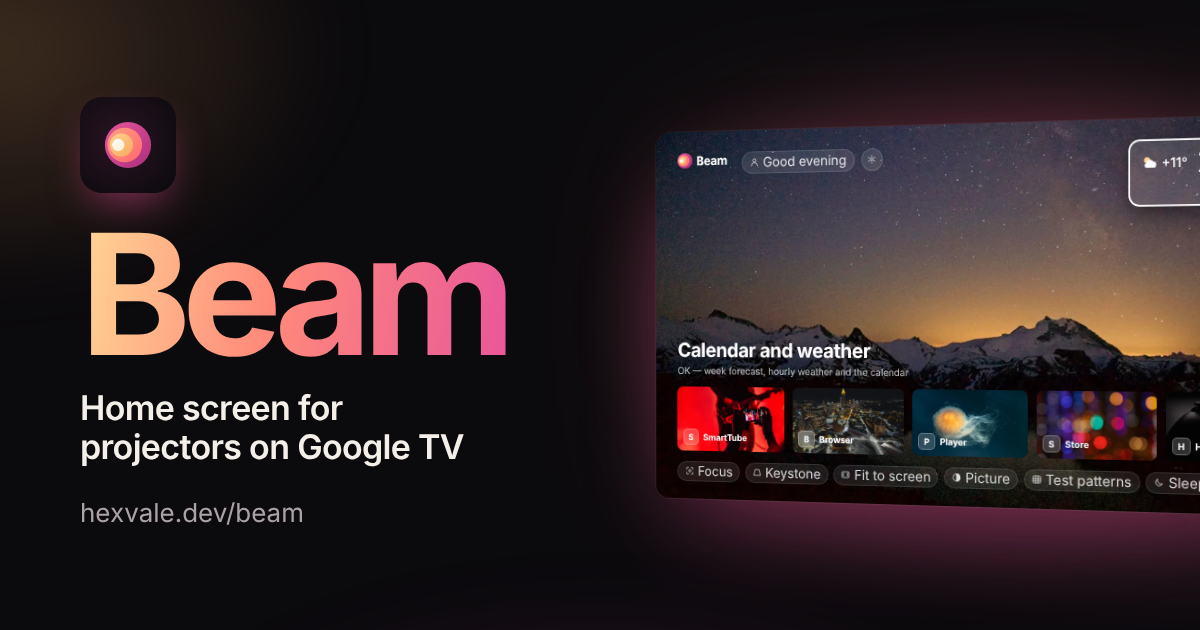
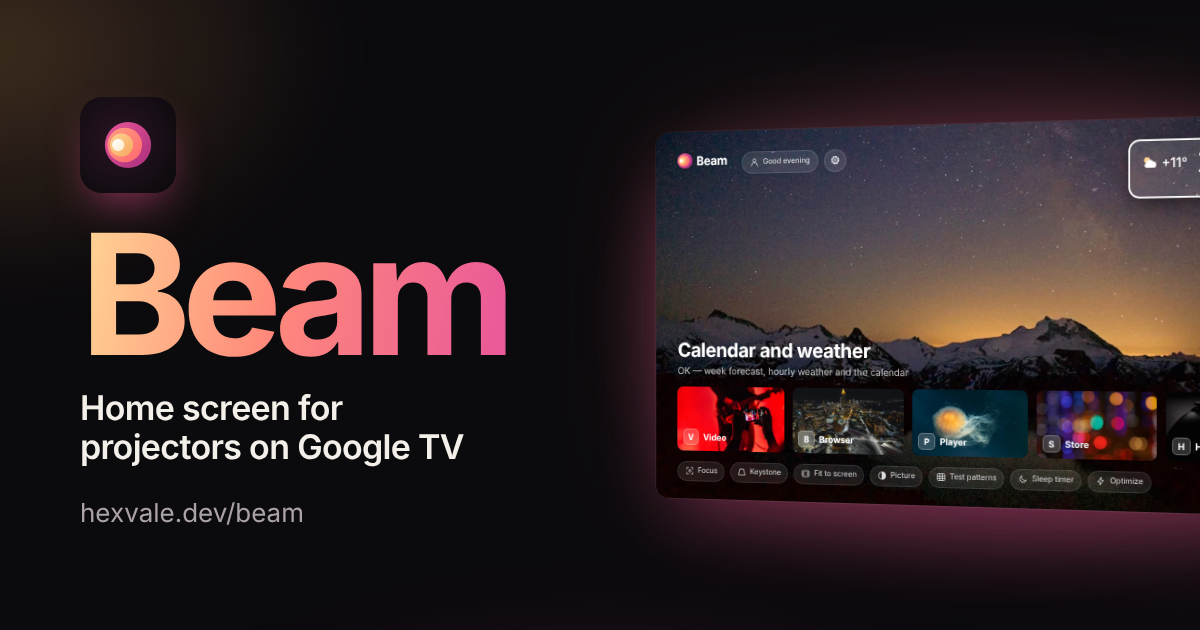
Beam: remote buttons described as reassignable, no third-party app names

Changed region(s): [[0.5858, 0.6635, 1.0, 0.7841], [0.6167, 0.2413, 0.74, 0.2714], [0.925, 0.3016, 1.0, 0.3317]]

diff --git a/ru/beam/index.html b/ru/beam/index.html
@@ -62,7 +62,7 @@
           </div>
           <h1 class="b-wordmark beam-word">Beam</h1>
           <p class="o-tagline">Главный экран для проекторов на Google TV</p>
-          <p class="lead">Чистый главный экран без рекламы и рекомендаций. Кнопка «Домой» открывает Beam, кнопка YouTube на пульте — SmartTube, а фокус, трапеция и таймер сна — в один клик.</p>
+          <p class="lead">Чистый главный экран без рекламы и рекомендаций. Кнопка «Домой» открывает Beam, кнопки пульта можно переназначить, а фокус, трапеция и таймер сна — в один клик.</p>
           <ul class="tags"><li>Без рекламы</li><li>Без аналитики</li><li>Бесплатный и открытый</li></ul>
         </div>
         <div class="room stage" aria-hidden="true">
@@ -82,7 +82,7 @@
                   <p class="tv-title">Календарь и погода</p>
                   <p class="tv-desc">OK — прогноз на неделю, погода по часам и календарь</p>
                 </div>
-                <div class="tv-row"><span class="tv-tile"><img src="/assets/img/beam/cover-smarttube-640.webp" width="640" height="360" alt="" loading="lazy" decoding="async"><span><i>S</i>SmartTube</span></span><span class="tv-tile"><img src="/assets/img/beam/cover-browser-640.webp" width="640" height="360" alt="" loading="lazy" decoding="async"><span><i>Б</i>Браузер</span></span><span class="tv-tile"><img src="/assets/img/beam/cover-implayer-640.webp" width="640" height="360" alt="" loading="lazy" decoding="async"><span><i>П</i>Плеер</span></span><span class="tv-tile"><img src="/assets/img/beam/cover-play-640.webp" width="640" height="360" alt="" loading="lazy" decoding="async"><span><i>М</i>Магазин</span></span><span class="tv-tile"><img src="/assets/img/beam/cover-hdmi-640.webp" width="640" height="360" alt="" loading="lazy" decoding="async"><span><i>H</i>HDMI</span></span></div>
+                <div class="tv-row"><span class="tv-tile"><img src="/assets/img/beam/cover-video-640.webp" width="640" height="360" alt="" loading="lazy" decoding="async"><span><i>В</i>Видео</span></span><span class="tv-tile"><img src="/assets/img/beam/cover-browser-640.webp" width="640" height="360" alt="" loading="lazy" decoding="async"><span><i>Б</i>Браузер</span></span><span class="tv-tile"><img src="/assets/img/beam/cover-implayer-640.webp" width="640" height="360" alt="" loading="lazy" decoding="async"><span><i>П</i>Плеер</span></span><span class="tv-tile"><img src="/assets/img/beam/cover-play-640.webp" width="640" height="360" alt="" loading="lazy" decoding="async"><span><i>М</i>Магазин</span></span><span class="tv-tile"><img src="/assets/img/beam/cover-hdmi-640.webp" width="640" height="360" alt="" loading="lazy" decoding="async"><span><i>H</i>HDMI</span></span></div>
                 <div class="tv-acts"><span class="tv-act"><svg viewBox="0 0 24 24" aria-hidden="true"><circle cx="12" cy="12" r="3"/><path d="M4 8V5a1 1 0 0 1 1-1h3M16 4h3a1 1 0 0 1 1 1v3M20 16v3a1 1 0 0 1-1 1h-3M8 20H5a1 1 0 0 1-1-1v-3"/></svg>Фокус</span><span class="tv-act"><svg viewBox="0 0 24 24" aria-hidden="true"><path d="M7 5h10l3.5 14h-17z"/></svg>Трапеция</span><span class="tv-act"><svg viewBox="0 0 24 24" aria-hidden="true"><rect x="3" y="5" width="18" height="14" rx="2"/><path d="M8 9H6.5v2M16 9h1.5v2M8 15H6.5v-2M16 15h1.5v-2"/></svg>Вписать</span><span class="tv-act"><svg viewBox="0 0 24 24" aria-hidden="true"><circle cx="12" cy="12" r="8.5"/><path d="M12 3.5a8.5 8.5 0 0 1 0 17z" fill="currentColor"/></svg>Изображение</span><span class="tv-act"><svg viewBox="0 0 24 24" aria-hidden="true"><rect x="3" y="4" width="18" height="16" rx="2"/><path d="M3 10h18M3 15h18M9 4v16M15 4v16"/></svg>Тест-таблицы</span><span class="tv-act"><svg viewBox="0 0 24 24" aria-hidden="true"><path d="M20 14.5A8 8 0 0 1 9.5 4a8 8 0 1 0 10.5 10.5z"/></svg>Таймер сна</span><span class="tv-act"><svg viewBox="0 0 24 24" aria-hidden="true"><path d="M13 3 5 14h6l-1 7 8-11h-6z"/></svg>Оптимизация</span></div>
               </div>
             </div>
@@ -146,10 +146,10 @@
           <article class="card reveal">
             <div class="art night" aria-hidden="true"><div class="remote"><span class="ring"></span><span class="home lit"></span><span class="keys"><i class="lit"></i><i></i><i></i><i></i></span></div></div>
             <h3>Кнопки пульта</h3>
-            <p>«Домой» открывает Beam, а кнопка YouTube — SmartTube. Небольшая служба видит только, какая кнопка нажата. Выбор своих приложений — в следующих версиях.</p>
+            <p>«Домой» открывает Beam, а кнопки пульта можно переназначить. Небольшая служба видит только, какая кнопка нажата.</p>
           </article>
           <article class="card reveal">
-            <div class="art night" aria-hidden="true"><div class="mini-covers"><img src="/assets/img/beam/cover-browser-640.webp" width="640" height="360" alt="" loading="lazy" decoding="async"><img src="/assets/img/beam/cover-implayer-640.webp" width="640" height="360" alt="" loading="lazy" decoding="async"><img src="/assets/img/beam/cover-smarttube-640.webp" width="640" height="360" alt="" loading="lazy" decoding="async"></div></div>
+            <div class="art night" aria-hidden="true"><div class="mini-covers"><img src="/assets/img/beam/cover-browser-640.webp" width="640" height="360" alt="" loading="lazy" decoding="async"><img src="/assets/img/beam/cover-implayer-640.webp" width="640" height="360" alt="" loading="lazy" decoding="async"><img src="/assets/img/beam/cover-video-640.webp" width="640" height="360" alt="" loading="lazy" decoding="async"></div></div>
             <h3>Обложки приложений</h3>
             <p>У каждого приложения — фото в его настроении, значок и название, а если хотите — собственный баннер приложения. Удерживайте OK на плитке, чтобы переместить или скрыть её.</p>
           </article>

diff --git a/beam/index.html b/beam/index.html
@@ -62,7 +62,7 @@
           </div>
           <h1 class="b-wordmark beam-word">Beam</h1>
           <p class="o-tagline">A home screen for projectors on Google TV</p>
-          <p class="lead">A clean home screen without ads or recommendations. The Home button opens Beam, the YouTube button on the remote opens SmartTube, and focus, keystone and the sleep timer are one click away.</p>
+          <p class="lead">A clean home screen without ads or recommendations. The Home button opens Beam, the remote buttons can be reassigned, and focus, keystone and the sleep timer are one click away.</p>
           <ul class="tags"><li>No ads</li><li>No analytics</li><li>Free and open source</li></ul>
         </div>
         <div class="room stage" aria-hidden="true">
@@ -82,7 +82,7 @@
                   <p class="tv-title">Calendar and weather</p>
                   <p class="tv-desc">OK — week forecast, hourly weather and the calendar</p>
                 </div>
-                <div class="tv-row"><span class="tv-tile"><img src="/assets/img/beam/cover-smarttube-640.webp" width="640" height="360" alt="" loading="lazy" decoding="async"><span><i>S</i>SmartTube</span></span><span class="tv-tile"><img src="/assets/img/beam/cover-browser-640.webp" width="640" height="360" alt="" loading="lazy" decoding="async"><span><i>B</i>Browser</span></span><span class="tv-tile"><img src="/assets/img/beam/cover-implayer-640.webp" width="640" height="360" alt="" loading="lazy" decoding="async"><span><i>P</i>Player</span></span><span class="tv-tile"><img src="/assets/img/beam/cover-play-640.webp" width="640" height="360" alt="" loading="lazy" decoding="async"><span><i>S</i>Store</span></span><span class="tv-tile"><img src="/assets/img/beam/cover-hdmi-640.webp" width="640" height="360" alt="" loading="lazy" decoding="async"><span><i>H</i>HDMI</span></span></div>
+                <div class="tv-row"><span class="tv-tile"><img src="/assets/img/beam/cover-video-640.webp" width="640" height="360" alt="" loading="lazy" decoding="async"><span><i>V</i>Video</span></span><span class="tv-tile"><img src="/assets/img/beam/cover-browser-640.webp" width="640" height="360" alt="" loading="lazy" decoding="async"><span><i>B</i>Browser</span></span><span class="tv-tile"><img src="/assets/img/beam/cover-implayer-640.webp" width="640" height="360" alt="" loading="lazy" decoding="async"><span><i>P</i>Player</span></span><span class="tv-tile"><img src="/assets/img/beam/cover-play-640.webp" width="640" height="360" alt="" loading="lazy" decoding="async"><span><i>S</i>Store</span></span><span class="tv-tile"><img src="/assets/img/beam/cover-hdmi-640.webp" width="640" height="360" alt="" loading="lazy" decoding="async"><span><i>H</i>HDMI</span></span></div>
                 <div class="tv-acts"><span class="tv-act"><svg viewBox="0 0 24 24" aria-hidden="true"><circle cx="12" cy="12" r="3"/><path d="M4 8V5a1 1 0 0 1 1-1h3M16 4h3a1 1 0 0 1 1 1v3M20 16v3a1 1 0 0 1-1 1h-3M8 20H5a1 1 0 0 1-1-1v-3"/></svg>Focus</span><span class="tv-act"><svg viewBox="0 0 24 24" aria-hidden="true"><path d="M7 5h10l3.5 14h-17z"/></svg>Keystone</span><span class="tv-act"><svg viewBox="0 0 24 24" aria-hidden="true"><rect x="3" y="5" width="18" height="14" rx="2"/><path d="M8 9H6.5v2M16 9h1.5v2M8 15H6.5v-2M16 15h1.5v-2"/></svg>Fit to screen</span><span class="tv-act"><svg viewBox="0 0 24 24" aria-hidden="true"><circle cx="12" cy="12" r="8.5"/><path d="M12 3.5a8.5 8.5 0 0 1 0 17z" fill="currentColor"/></svg>Picture</span><span class="tv-act"><svg viewBox="0 0 24 24" aria-hidden="true"><rect x="3" y="4" width="18" height="16" rx="2"/><path d="M3 10h18M3 15h18M9 4v16M15 4v16"/></svg>Test patterns</span><span class="tv-act"><svg viewBox="0 0 24 24" aria-hidden="true"><path d="M20 14.5A8 8 0 0 1 9.5 4a8 8 0 1 0 10.5 10.5z"/></svg>Sleep timer</span><span class="tv-act"><svg viewBox="0 0 24 24" aria-hidden="true"><path d="M13 3 5 14h6l-1 7 8-11h-6z"/></svg>Optimize</span></div>
               </div>
             </div>
@@ -146,10 +146,10 @@
           <article class="card reveal">
             <div class="art night" aria-hidden="true"><div class="remote"><span class="ring"></span><span class="home lit"></span><span class="keys"><i class="lit"></i><i></i><i></i><i></i></span></div></div>
             <h3>Remote buttons</h3>
-            <p>Home opens Beam, and the YouTube button opens SmartTube. A small service sees only which button was pressed. Picking your own apps comes in a later version.</p>
+            <p>Home opens Beam, and the remote buttons can be reassigned. A small service sees only which button was pressed.</p>
           </article>
           <article class="card reveal">
-            <div class="art night" aria-hidden="true"><div class="mini-covers"><img src="/assets/img/beam/cover-browser-640.webp" width="640" height="360" alt="" loading="lazy" decoding="async"><img src="/assets/img/beam/cover-implayer-640.webp" width="640" height="360" alt="" loading="lazy" decoding="async"><img src="/assets/img/beam/cover-smarttube-640.webp" width="640" height="360" alt="" loading="lazy" decoding="async"></div></div>
+            <div class="art night" aria-hidden="true"><div class="mini-covers"><img src="/assets/img/beam/cover-browser-640.webp" width="640" height="360" alt="" loading="lazy" decoding="async"><img src="/assets/img/beam/cover-implayer-640.webp" width="640" height="360" alt="" loading="lazy" decoding="async"><img src="/assets/img/beam/cover-video-640.webp" width="640" height="360" alt="" loading="lazy" decoding="async"></div></div>
             <h3>App covers</h3>
             <p>Each app gets a photo in its mood, with its icon and name — or the app’s own banner, if you prefer. Hold OK on a tile to move or hide it.</p>
           </article>

diff --git a/ru/index.html b/ru/index.html
@@ -134,7 +134,7 @@
                   <p class="tv-title">Календарь и погода</p>
                   <p class="tv-desc">OK — прогноз на неделю, погода по часам и календарь</p>
                 </div>
-                <div class="tv-row"><span class="tv-tile"><img src="/assets/img/beam/cover-smarttube-640.webp" width="640" height="360" alt="" loading="lazy" decoding="async"><span><i>S</i>SmartTube</span></span><span class="tv-tile"><img src="/assets/img/beam/cover-browser-640.webp" width="640" height="360" alt="" loading="lazy" decoding="async"><span><i>Б</i>Браузер</span></span><span class="tv-tile"><img src="/assets/img/beam/cover-implayer-640.webp" width="640" height="360" alt="" loading="lazy" decoding="async"><span><i>П</i>Плеер</span></span><span class="tv-tile"><img src="/assets/img/beam/cover-play-640.webp" width="640" height="360" alt="" loading="lazy" decoding="async"><span><i>М</i>Магазин</span></span><span class="tv-tile"><img src="/assets/img/beam/cover-hdmi-640.webp" width="640" height="360" alt="" loading="lazy" decoding="async"><span><i>H</i>HDMI</span></span></div>
+                <div class="tv-row"><span class="tv-tile"><img src="/assets/img/beam/cover-video-640.webp" width="640" height="360" alt="" loading="lazy" decoding="async"><span><i>В</i>Видео</span></span><span class="tv-tile"><img src="/assets/img/beam/cover-browser-640.webp" width="640" height="360" alt="" loading="lazy" decoding="async"><span><i>Б</i>Браузер</span></span><span class="tv-tile"><img src="/assets/img/beam/cover-implayer-640.webp" width="640" height="360" alt="" loading="lazy" decoding="async"><span><i>П</i>Плеер</span></span><span class="tv-tile"><img src="/assets/img/beam/cover-play-640.webp" width="640" height="360" alt="" loading="lazy" decoding="async"><span><i>М</i>Магазин</span></span><span class="tv-tile"><img src="/assets/img/beam/cover-hdmi-640.webp" width="640" height="360" alt="" loading="lazy" decoding="async"><span><i>H</i>HDMI</span></span></div>
                 <div class="tv-acts"><span class="tv-act"><svg viewBox="0 0 24 24" aria-hidden="true"><circle cx="12" cy="12" r="3"/><path d="M4 8V5a1 1 0 0 1 1-1h3M16 4h3a1 1 0 0 1 1 1v3M20 16v3a1 1 0 0 1-1 1h-3M8 20H5a1 1 0 0 1-1-1v-3"/></svg>Фокус</span><span class="tv-act"><svg viewBox="0 0 24 24" aria-hidden="true"><path d="M7 5h10l3.5 14h-17z"/></svg>Трапеция</span><span class="tv-act"><svg viewBox="0 0 24 24" aria-hidden="true"><rect x="3" y="5" width="18" height="14" rx="2"/><path d="M8 9H6.5v2M16 9h1.5v2M8 15H6.5v-2M16 15h1.5v-2"/></svg>Вписать</span><span class="tv-act"><svg viewBox="0 0 24 24" aria-hidden="true"><circle cx="12" cy="12" r="8.5"/><path d="M12 3.5a8.5 8.5 0 0 1 0 17z" fill="currentColor"/></svg>Изображение</span><span class="tv-act"><svg viewBox="0 0 24 24" aria-hidden="true"><rect x="3" y="4" width="18" height="16" rx="2"/><path d="M3 10h18M3 15h18M9 4v16M15 4v16"/></svg>Тест-таблицы</span><span class="tv-act"><svg viewBox="0 0 24 24" aria-hidden="true"><path d="M20 14.5A8 8 0 0 1 9.5 4a8 8 0 1 0 10.5 10.5z"/></svg>Таймер сна</span><span class="tv-act"><svg viewBox="0 0 24 24" aria-hidden="true"><path d="M13 3 5 14h6l-1 7 8-11h-6z"/></svg>Оптимизация</span></div>
               </div>
             </div>

diff --git a/index.html b/index.html
@@ -134,7 +134,7 @@
                   <p class="tv-title">Calendar and weather</p>
                   <p class="tv-desc">OK — week forecast, hourly weather and the calendar</p>
                 </div>
-                <div class="tv-row"><span class="tv-tile"><img src="/assets/img/beam/cover-smarttube-640.webp" width="640" height="360" alt="" loading="lazy" decoding="async"><span><i>S</i>SmartTube</span></span><span class="tv-tile"><img src="/assets/img/beam/cover-browser-640.webp" width="640" height="360" alt="" loading="lazy" decoding="async"><span><i>B</i>Browser</span></span><span class="tv-tile"><img src="/assets/img/beam/cover-implayer-640.webp" width="640" height="360" alt="" loading="lazy" decoding="async"><span><i>P</i>Player</span></span><span class="tv-tile"><img src="/assets/img/beam/cover-play-640.webp" width="640" height="360" alt="" loading="lazy" decoding="async"><span><i>S</i>Store</span></span><span class="tv-tile"><img src="/assets/img/beam/cover-hdmi-640.webp" width="640" height="360" alt="" loading="lazy" decoding="async"><span><i>H</i>HDMI</span></span></div>
+                <div class="tv-row"><span class="tv-tile"><img src="/assets/img/beam/cover-video-640.webp" width="640" height="360" alt="" loading="lazy" decoding="async"><span><i>V</i>Video</span></span><span class="tv-tile"><img src="/assets/img/beam/cover-browser-640.webp" width="640" height="360" alt="" loading="lazy" decoding="async"><span><i>B</i>Browser</span></span><span class="tv-tile"><img src="/assets/img/beam/cover-implayer-640.webp" width="640" height="360" alt="" loading="lazy" decoding="async"><span><i>P</i>Player</span></span><span class="tv-tile"><img src="/assets/img/beam/cover-play-640.webp" width="640" height="360" alt="" loading="lazy" decoding="async"><span><i>S</i>Store</span></span><span class="tv-tile"><img src="/assets/img/beam/cover-hdmi-640.webp" width="640" height="360" alt="" loading="lazy" decoding="async"><span><i>H</i>HDMI</span></span></div>
                 <div class="tv-acts"><span class="tv-act"><svg viewBox="0 0 24 24" aria-hidden="true"><circle cx="12" cy="12" r="3"/><path d="M4 8V5a1 1 0 0 1 1-1h3M16 4h3a1 1 0 0 1 1 1v3M20 16v3a1 1 0 0 1-1 1h-3M8 20H5a1 1 0 0 1-1-1v-3"/></svg>Focus</span><span class="tv-act"><svg viewBox="0 0 24 24" aria-hidden="true"><path d="M7 5h10l3.5 14h-17z"/></svg>Keystone</span><span class="tv-act"><svg viewBox="0 0 24 24" aria-hidden="true"><rect x="3" y="5" width="18" height="14" rx="2"/><path d="M8 9H6.5v2M16 9h1.5v2M8 15H6.5v-2M16 15h1.5v-2"/></svg>Fit to screen</span><span class="tv-act"><svg viewBox="0 0 24 24" aria-hidden="true"><circle cx="12" cy="12" r="8.5"/><path d="M12 3.5a8.5 8.5 0 0 1 0 17z" fill="currentColor"/></svg>Picture</span><span class="tv-act"><svg viewBox="0 0 24 24" aria-hidden="true"><rect x="3" y="4" width="18" height="16" rx="2"/><path d="M3 10h18M3 15h18M9 4v16M15 4v16"/></svg>Test patterns</span><span class="tv-act"><svg viewBox="0 0 24 24" aria-hidden="true"><path d="M20 14.5A8 8 0 0 1 9.5 4a8 8 0 1 0 10.5 10.5z"/></svg>Sleep timer</span><span class="tv-act"><svg viewBox="0 0 24 24" aria-hidden="true"><path d="M13 3 5 14h6l-1 7 8-11h-6z"/></svg>Optimize</span></div>
               </div>
             </div>

diff --git a/ru/beam/support/index.html b/ru/beam/support/index.html
@@ -89,10 +89,6 @@
               <p>Только какая кнопка пульта нажата и когда открылся стандартный экран Google TV. Экран она не читает, ничего не сохраняется и никуда не отправляется.</p>
             </details>
             <details>
-              <summary>Можно выбрать, какие приложения открывают кнопки пульта?</summary>
-              <p>Пока нет: кнопка YouTube открывает SmartTube, назначения фиксированы. Выбор своих приложений появится в следующих версиях.</p>
-            </details>
-            <details>
               <summary>Как скрыть или переместить приложение?</summary>
               <p>Удерживайте OK на плитке — откроется меню: «Переместить», «Скрыть с главного экрана», «О приложении», «Удалить». Скрытые возвращаются в настройках Beam → «Главный экран» → «Скрытые приложения».</p>
             </details>

diff --git a/beam/support/index.html b/beam/support/index.html
@@ -89,10 +89,6 @@
               <p>Only which remote button was pressed and when the stock Google TV home screen opens. It doesn’t read the screen, and nothing is stored or sent anywhere.</p>
             </details>
             <details>
-              <summary>Can I choose which apps the remote buttons open?</summary>
-              <p>Not yet: for now the YouTube button opens SmartTube and the assignments are fixed. Picking your own apps comes in a later version.</p>
-            </details>
-            <details>
               <summary>How do I hide or move an app?</summary>
               <p>Hold OK on its tile: a menu opens with Move, Hide from home, App info and Uninstall. Hidden apps come back from Beam settings → Home screen → Hidden apps.</p>
             </details>

diff --git a/README.md b/README.md
@@ -35,7 +35,7 @@ python3 scripts/check_links.py
 | Файл | Снимок | Автор |
 |---|---|---|
 | `backdrop-*.webp` | Looking to the stars | Austin Johnson |
-| `cover-smarttube-640.webp` | Guitarist bathed in red light | Sergio Alejandro Ortiz |
+| `cover-video-640.webp` | Guitarist bathed in red light | Sergio Alejandro Ortiz |
 | `cover-browser-640.webp` | City at Night | Kyle Sudu |
 | `cover-implayer-640.webp` | Lion's mane jellyfish in Gullmarn fjord | W.carter |
 | `cover-play-640.webp` | Colorful bokeh from outdoor lighting | Martin Eklund |
